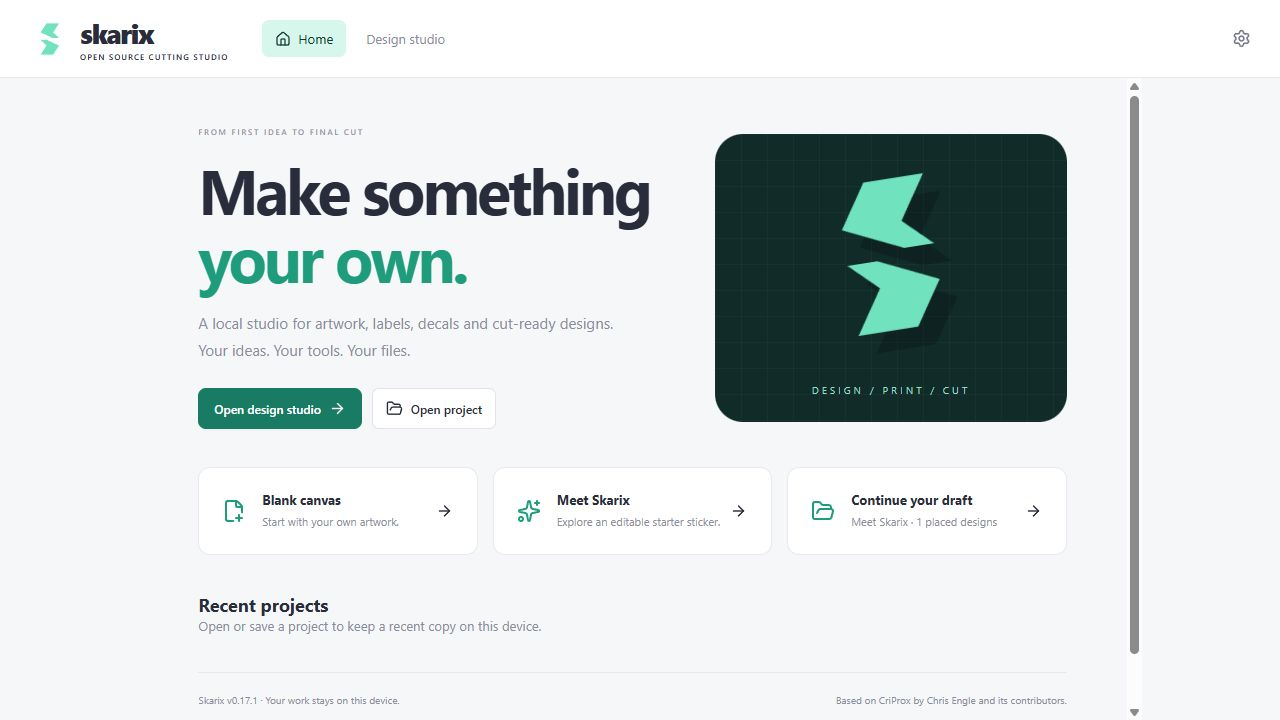
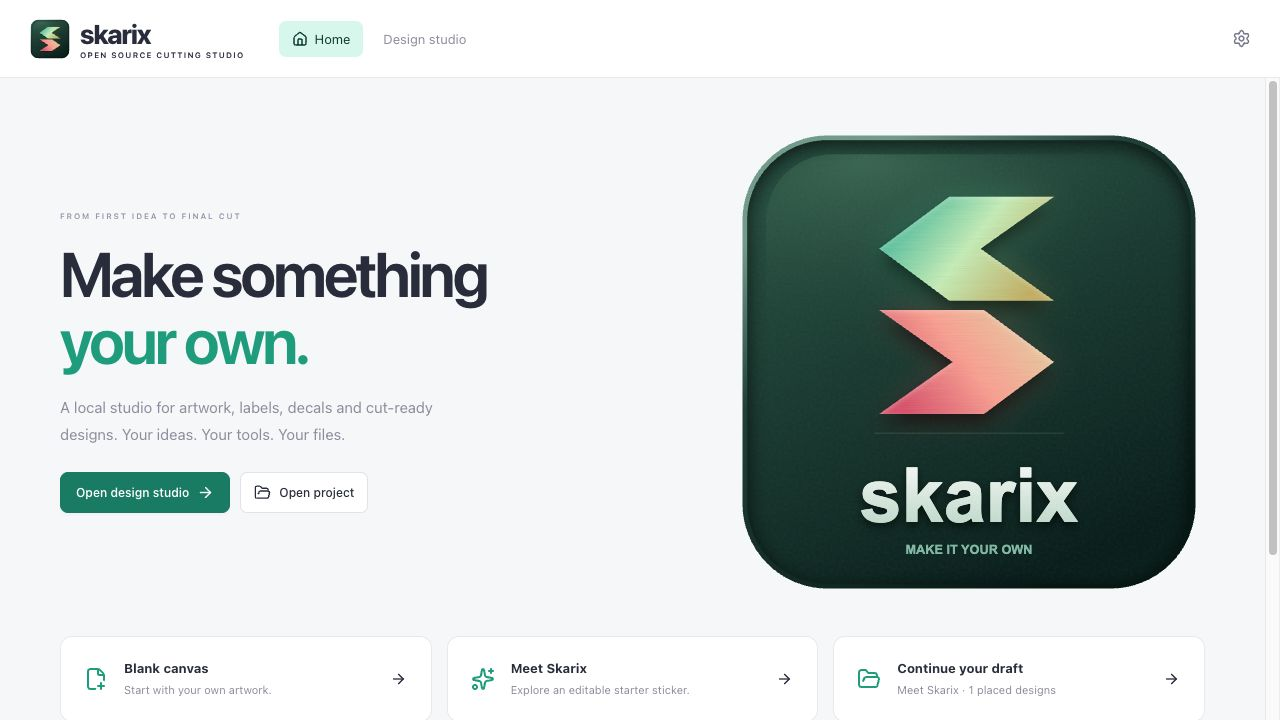
chore(site): refresh Aurora branding and app screenshots (#12)

diff --git a/site/style.css b/site/style.css
@@ -98,7 +98,7 @@ main,
 }
 .header .brand img {
   width: 38px;
-  height: 41px;
+  height: 38px;
 }
 .header nav {
   display: flex;

diff --git a/docs/WEBSITE.md b/docs/WEBSITE.md
@@ -25,3 +25,5 @@ Defaults are `SITE_ORIGIN=https://doudar.github.io` and `SITE_BASE_PATH=/Skarix/
 The footer credits CriProx, Chris Engle and the original contributors. Historical release notes retain their original content. v0.17.1 downloads still use the previous product name until a new release is published.
 
 Keep website changes in separate non-breaking chore(site), docs(site), or style(site) pull requests so they do not create application releases.
+
+The header, footer and favicon use the Aurora badge shared with the app. Regenerate shared assets with `node --import tsx scripts/generate-brand.ts` before rebuilding the website.
